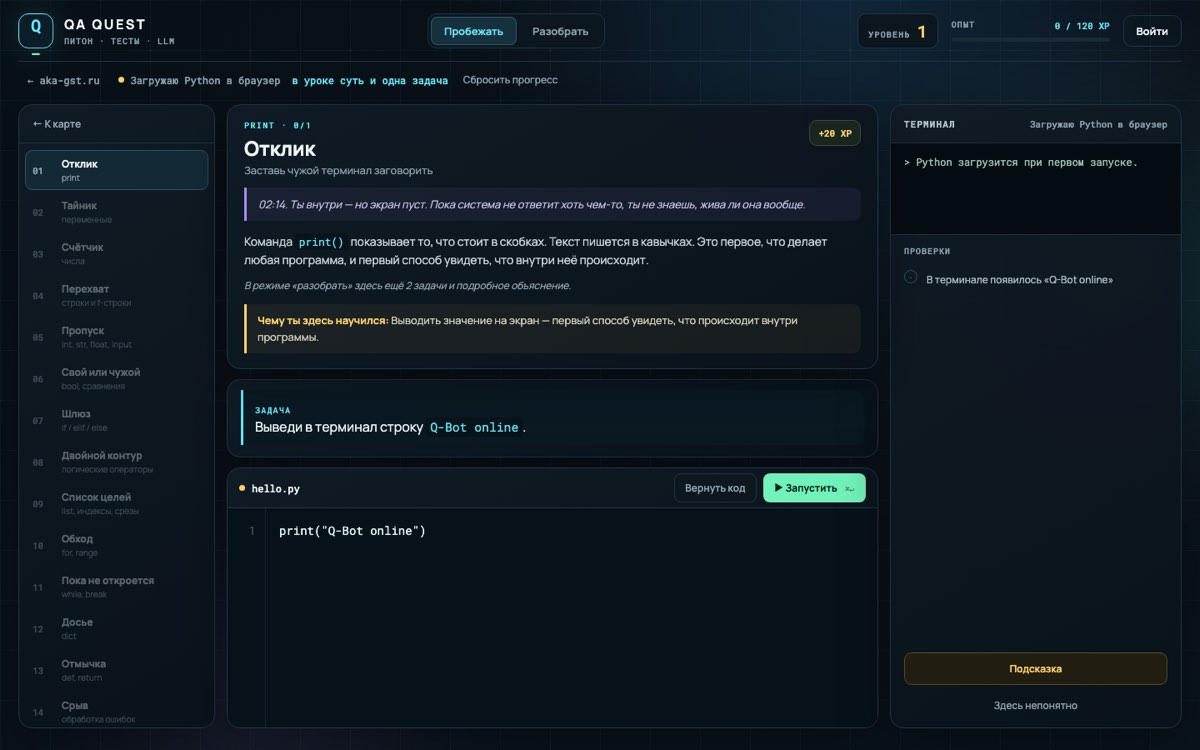
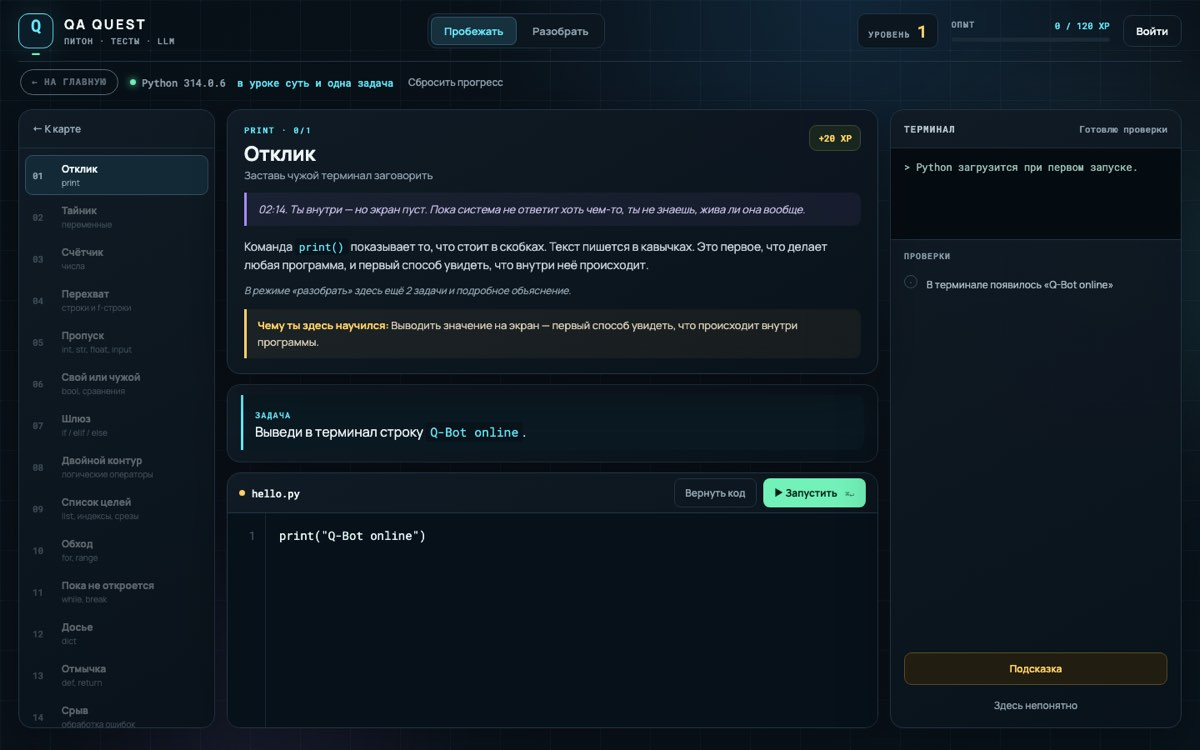
Re-shoot the lesson with the button it now has
The frame was taken before the home button changed, so the card promised
a link that no longer reads that way on the page.

diff --git a/index.html b/index.html
@@ -170,7 +170,7 @@
               <dd>внешних зависимостей</dd>
             </div>
           </dl>
-          <figure class="shot"><img src="/assets/shots/qa-quest-lesson.jpg?v=35c0b0d3" alt="Первый урок QA Quest: список уроков слева, задача вывести строку Q-Bot online, редактор с кодом print и терминал с проверками справа"
+          <figure class="shot"><img src="/assets/shots/qa-quest-lesson.jpg?v=aa7f21de" alt="Первый урок QA Quest: список уроков слева, задача вывести строку Q-Bot online, редактор с кодом print и терминал с проверками справа"
                 width="1200" height="750" decoding="async" loading="lazy"></figure>
           <div class="card-head">
             <p class="kicker">Обучение · браузер</p>
